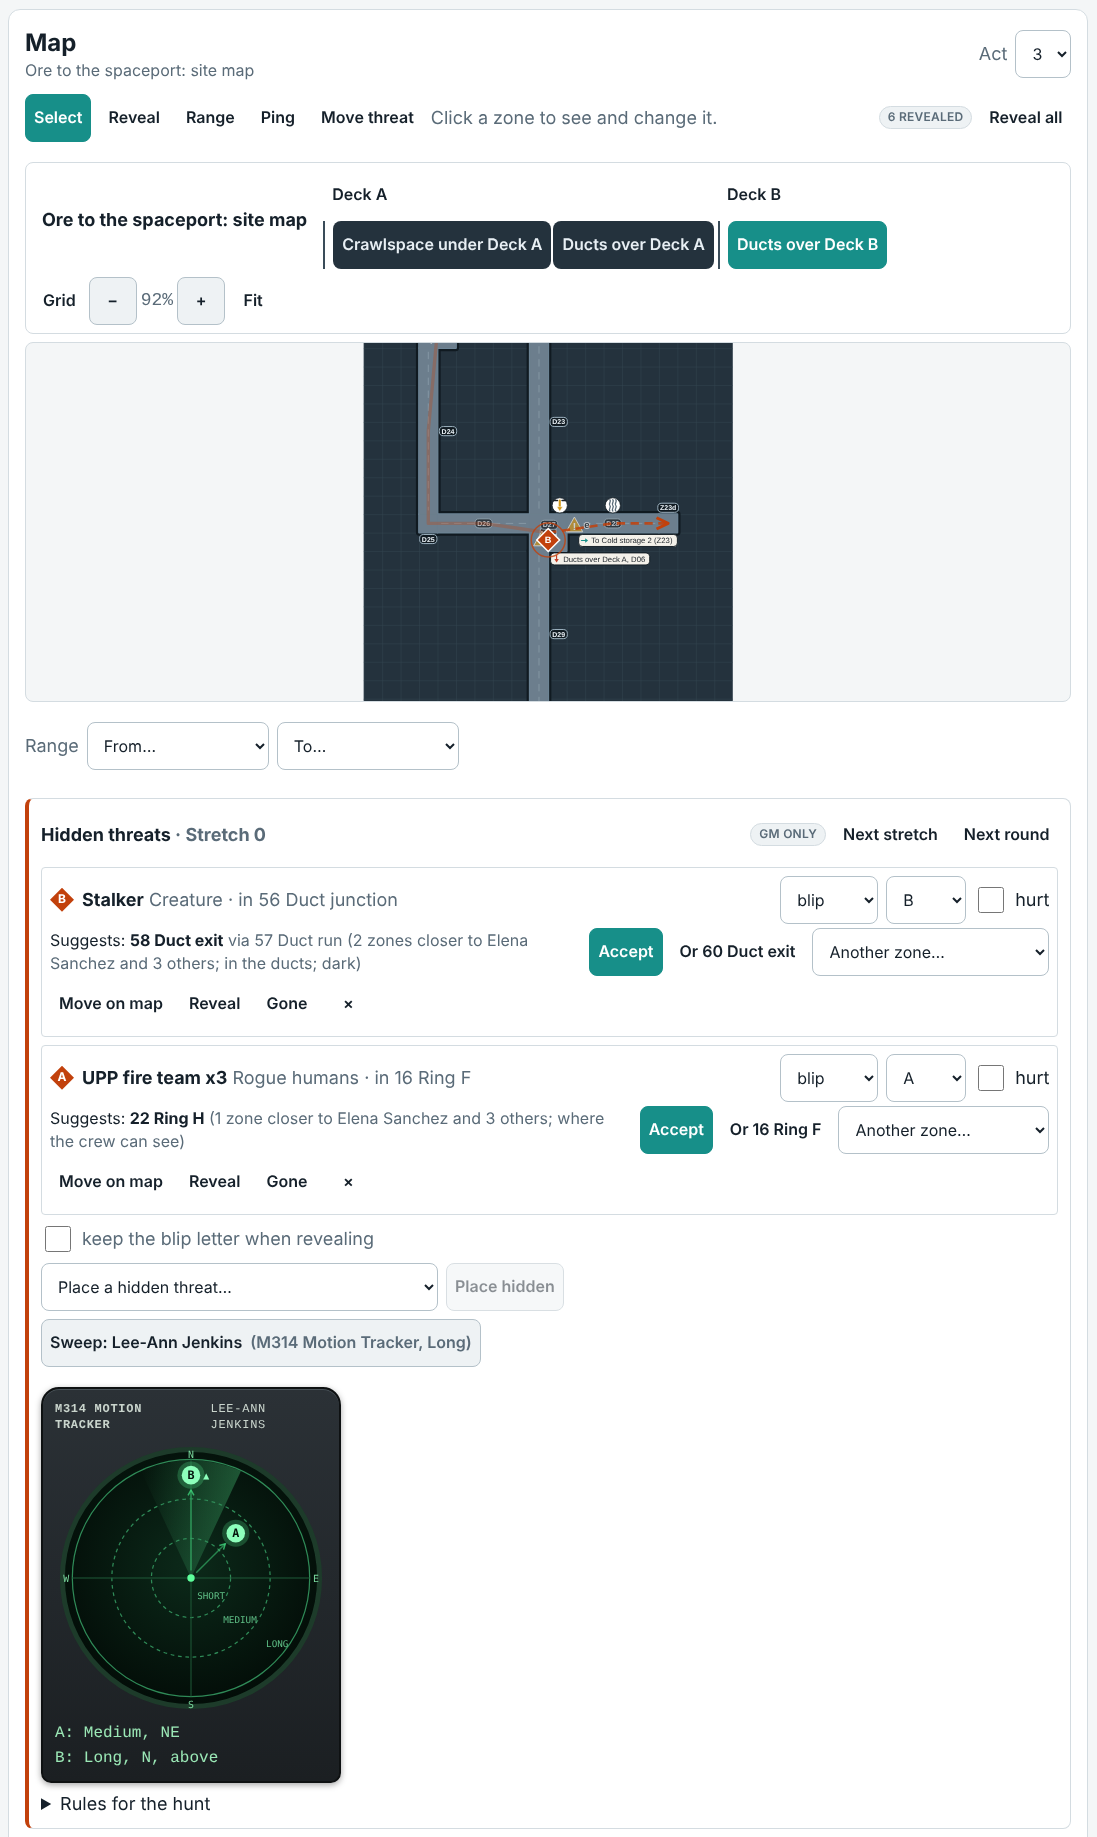
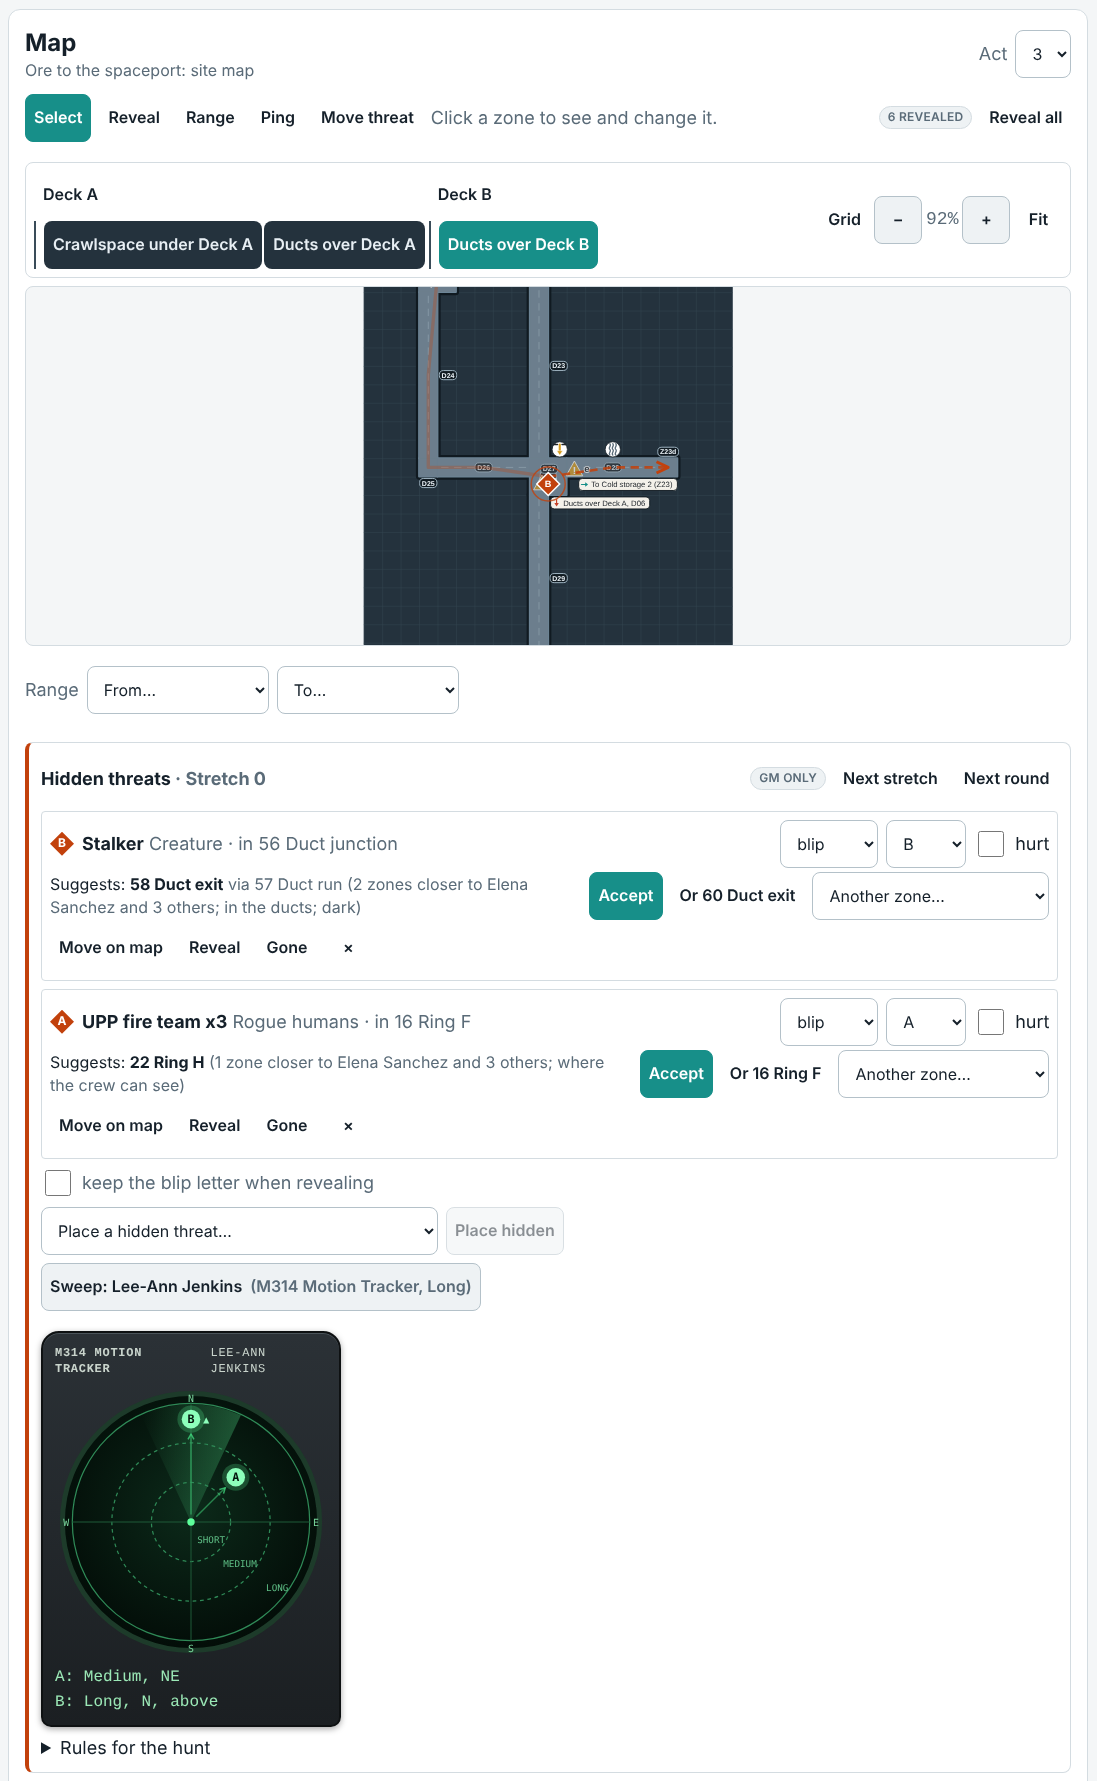
Live map: name the map once; on phones drop the card heading so the map sits higher
The phone spec now asks for what matters, at least 300 px of map above the
tab bar, instead of a fixed top position that font metrics move: CI's fonts
put the map's top at 468 px where it was 410 px locally.

Claude-Session: https://claude.ai/code/session_01PjoAoT19ZxbEizz2Vq94tE

diff --git a/apps/web/e2e/table-phone.spec.ts b/apps/web/e2e/table-phone.spec.ts
@@ -47,7 +47,9 @@ test("a session at 390×844: tab bar to the map, the crew and the dice; one roun
   await expect(live).toBeVisible();
   const viewport = live.locator(".cf-map__viewport");
   const vp = (await viewport.boundingBox())!;
-  expect(vp.y).toBeLessThan(844 / 2);
+  // a big map on screen without scrolling: at least 300 px of it above the tab bar (font metrics move its top a little)
+  const barTop = (await bar.boundingBox())!.y;
+  expect(barTop - vp.y).toBeGreaterThanOrEqual(300);
   expect(vp.height).toBeGreaterThan(280);
   await expect(live.getByTestId("map-focus")).toBeVisible();
   // zones big enough to tap: the framed zoom is well above the whole-deck fit

diff --git a/apps/web/src/styles/app.css b/apps/web/src/styles/app.css
@@ -3846,3 +3846,20 @@ a.cf-btn {
 .app-thisjob .app-reveal__body {
   margin: var(--cf-space-1) 0;
 }
+
+/* the live map's card already names the map: no second name above the deck tabs */
+.app-livemap .cf-map__toolbar > .cf-toolbar__title {
+  display: none;
+}
+/* on a phone the Map tab says what this is: keep the map's name and the act, drop the heading */
+.app-table--narrow .app-livemap > .cf-card__header .cf-card__title {
+  position: absolute;
+  width: 1px;
+  height: 1px;
+  overflow: hidden;
+  clip: rect(0 0 0 0);
+  white-space: nowrap;
+}
+.app-table--narrow .app-livemap > .cf-card__header {
+  padding-block: var(--cf-space-2);
+}
